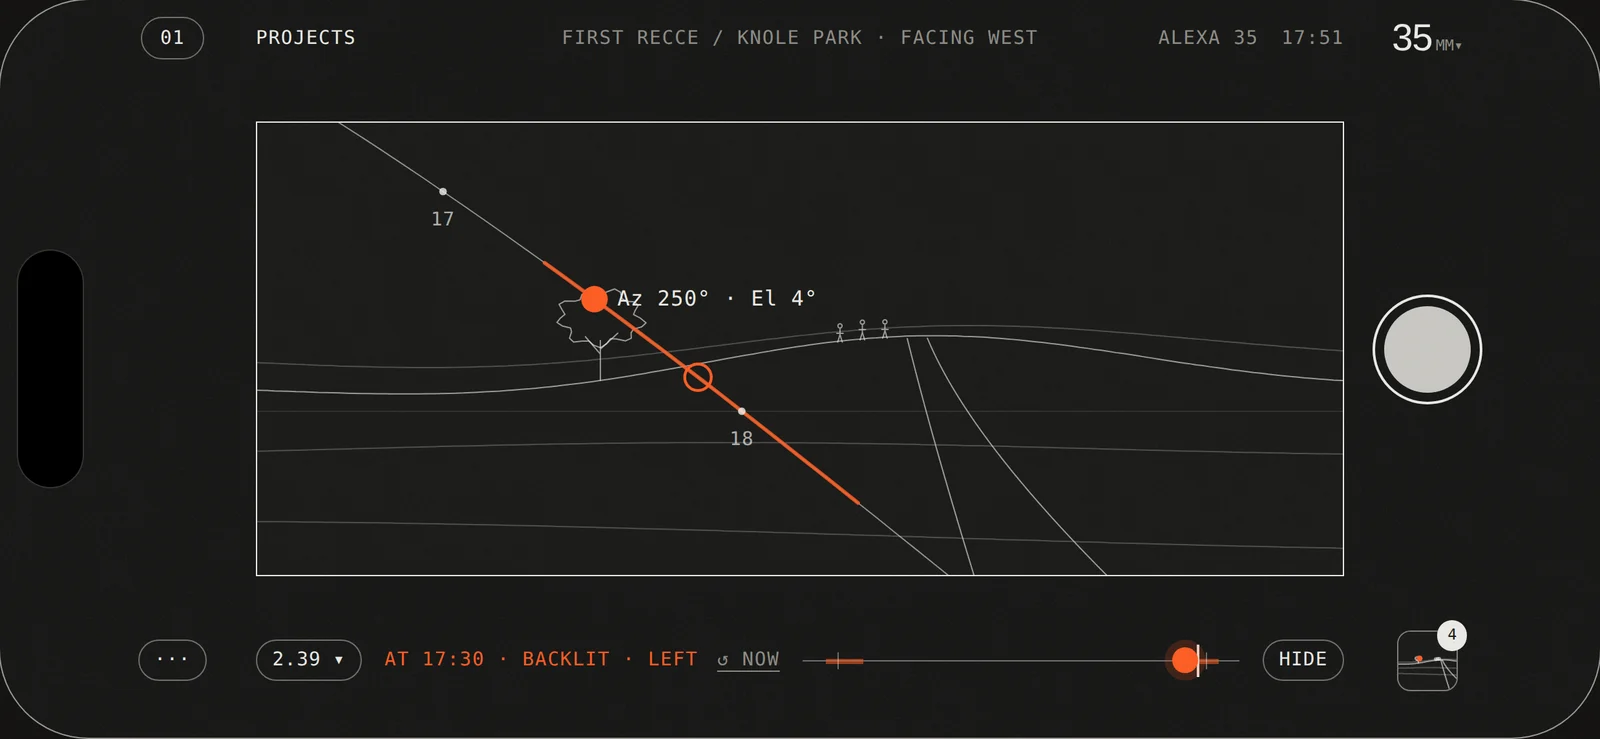
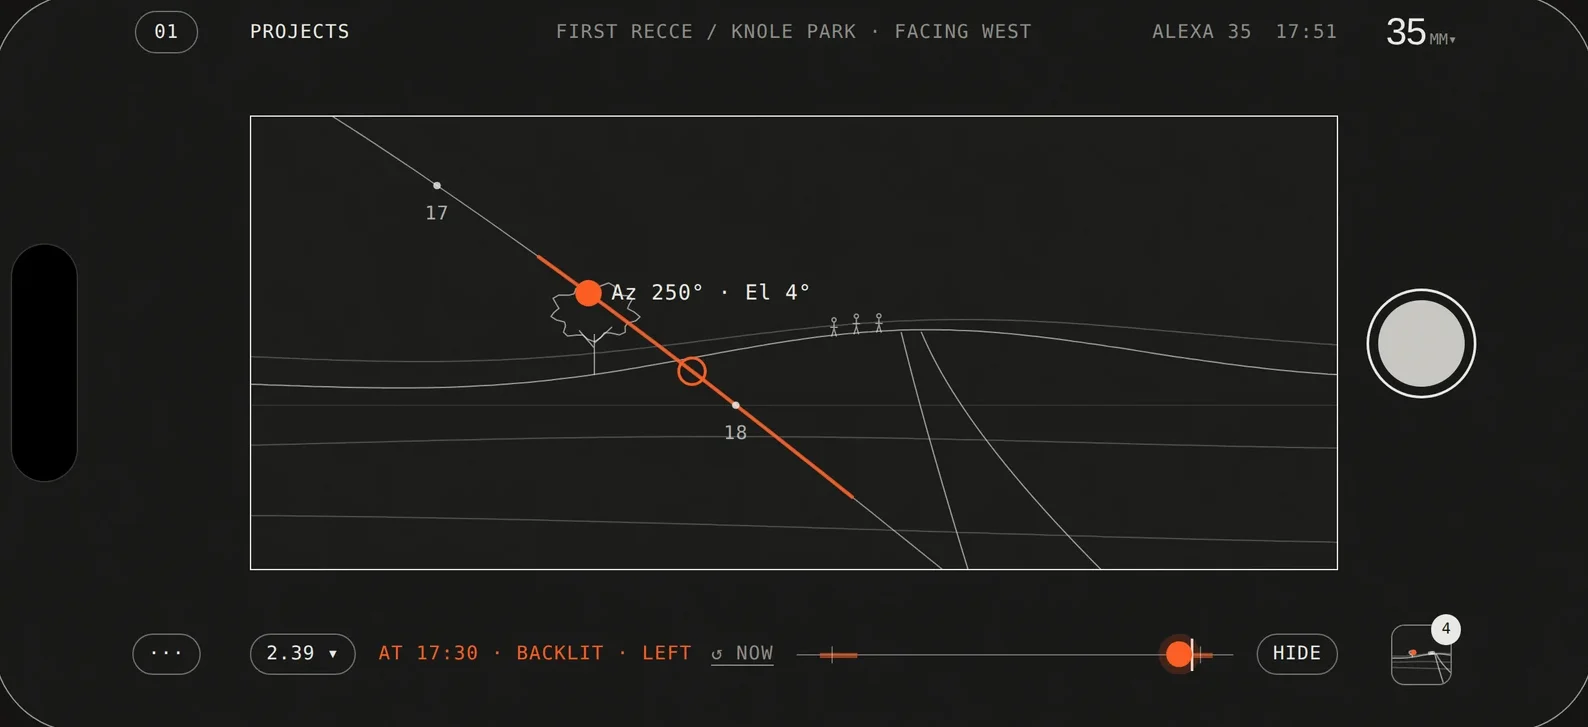
Test site: clip the phone corners on iPhone, trim the Out & Scout shots
Safari could show the phone's dark background square around its rounded
corners while a card scaled in; the phone now clips with a mask and the
splash inherits the radius. The Out & Scout screens lose their hairline
outline so no second frame shows inside the phone.

Claude-Session: https://claude.ai/code/session_01UP9XLJcJYF3iHGB7dSyvd7

diff --git a/preview/site/lv.js b/preview/site/lv.js
@@ -8,7 +8,7 @@
 
   var A = [
     // 19 Oct: real app screens, clicked through one after another, each with a line saying what it is
-    { ar: '1600/739', wide: true, seq: [
+    { ar: '1588/727', wide: true, seq: [
       ['img/os/s-start.webp', 'Projects and recces, each with its next good light'],
       ['img/os/s-cam.webp', 'The sun path drawn over the live camera'],
       ['img/os/s-portrait.webp', 'Grid, level, portrait'],
@@ -42,7 +42,7 @@
   css.textContent = [
     // shared: a taller tile so there is room for the work, and phones drawn like the project pages
     'html.lv .eltio.alt-plx.lp .x-frame{aspect-ratio:4/5!important;overflow:hidden}',
-    'html.lv .lv-ph{position:absolute;aspect-ratio:600/1298;border-radius:13%/6%;overflow:hidden;background:#0E0E0D;box-shadow:0 24px 40px -22px rgba(0,0,0,.55),0 0 0 1px rgba(0,0,0,.06)}',
+    'html.lv .lv-ph{position:absolute;aspect-ratio:600/1298;border-radius:13%/6%;overflow:hidden;background:#0E0E0D;box-shadow:0 24px 40px -22px rgba(0,0,0,.55);isolation:isolate;-webkit-mask-image:-webkit-radial-gradient(#fff,#000);transform:translateZ(0)}',
     'html.lv .lv-ph.w{aspect-ratio:698/350;border-radius:7%/14%}',
     'html.lv .lv-ph img,html.lv .lv-ph video{position:absolute;inset:0}',
     'html.lv .lv-ph .lv-s{position:absolute;inset:0;opacity:0;transition:opacity .7s ease}html.lv .lv-ph .lv-s.on{opacity:1}',
@@ -101,7 +101,7 @@
     'html.lv5 .lv-ph.w,html.lv6 .lv-ph.w{height:auto;width:86%;top:44%}',
     'html.lv5 .x-p.lv-on .lv-ph,html.lv6 .x-p.lv-on .lv-ph{opacity:1;scale:1;animation:lvFloat 5.5s ease-in-out infinite}',
     '@keyframes lvFloat{0%,100%{translate:-50% -50%}50%{translate:-50% calc(-50% - 7px)}}',
-    'html.lv .lv-sp{position:absolute;inset:0;z-index:3;background:#fffff8;transition:opacity .6s ease}',
+    'html.lv .lv-sp{position:absolute;inset:0;z-index:3;background:#fffff8;border-radius:inherit;overflow:hidden;transition:opacity .6s ease}',
     'html.lv .lv-sp .k2{position:absolute;inset:0;border:0!important;background:none!important;opacity:1!important;transform:none!important}',
     'html.lv .lv-sp .k2-rest{transform:scale(1.55)!important;opacity:1!important;filter:none!important}',
     'html.lv .lv-ph.w .lv-sp .k2-rest{transform:scale(1.05)!important}',

diff --git a/preview/site/index.html b/preview/site/index.html
@@ -5,10 +5,10 @@
 <meta name="viewport" content="width=device-width, initial-scale=1, viewport-fit=cover">
 <title>Eltio Studio</title>
 <link rel="icon" href="eye.svg">
-<link rel="stylesheet" href="site.css?v=1792410420">
-<link rel="stylesheet" href="alt.css?v=1792410420">
-<link rel="stylesheet" href="ring.css?v=1792410420">
-<link rel="stylesheet" href="plx.css?v=1792410420">
+<link rel="stylesheet" href="site.css?v=1792412128">
+<link rel="stylesheet" href="alt.css?v=1792412128">
+<link rel="stylesheet" href="ring.css?v=1792412128">
+<link rel="stylesheet" href="plx.css?v=1792412128">
 <style>html,body{margin:0;background:#fffff8}</style>
 </head>
 <body>
@@ -279,13 +279,13 @@
     <button type="button" class="x-sh-x m" aria-label="Close project">Close</button>
   </section>
 </div>
-<script src="site.js?v=1792410420"></script>
-<script src="wf.js?v=1792410420"></script>
-<script src="alt.js?v=1792410420"></script>
-<script src="land.js?v=1792410420"></script>
-<script src="plx.js?v=1792410420"></script>
-<script src="mi.js?v=1792410420"></script>
-<script src="lv.js?v=1792410420"></script>
-<script src="motion.js?v=1792410420"></script>
+<script src="site.js?v=1792412128"></script>
+<script src="wf.js?v=1792412128"></script>
+<script src="alt.js?v=1792412128"></script>
+<script src="land.js?v=1792412128"></script>
+<script src="plx.js?v=1792412128"></script>
+<script src="mi.js?v=1792412128"></script>
+<script src="lv.js?v=1792412128"></script>
+<script src="motion.js?v=1792412128"></script>
 </body>
 </html>

diff --git a/preview/site/landing.html b/preview/site/landing.html
@@ -5,10 +5,10 @@
 <meta name="viewport" content="width=device-width, initial-scale=1, viewport-fit=cover">
 <title>Eltio Studio</title>
 <link rel="icon" href="eye.svg">
-<link rel="stylesheet" href="site.css?v=1792410420">
-<link rel="stylesheet" href="alt.css?v=1792410420">
-<link rel="stylesheet" href="ring.css?v=1792410420">
-<link rel="stylesheet" href="plx.css?v=1792410420">
+<link rel="stylesheet" href="site.css?v=1792412128">
+<link rel="stylesheet" href="alt.css?v=1792412128">
+<link rel="stylesheet" href="ring.css?v=1792412128">
+<link rel="stylesheet" href="plx.css?v=1792412128">
 <style>html,body{margin:0;background:#fffff8}</style>
 </head>
 <body>
@@ -279,13 +279,13 @@
     <button type="button" class="x-sh-x m" aria-label="Close project">Close</button>
   </section>
 </div>
-<script src="site.js?v=1792410420"></script>
-<script src="wf.js?v=1792410420"></script>
-<script src="alt.js?v=1792410420"></script>
-<script src="land.js?v=1792410420"></script>
-<script src="plx.js?v=1792410420"></script>
-<script src="mi.js?v=1792410420"></script>
-<script src="lv.js?v=1792410420"></script>
-<script src="motion.js?v=1792410420"></script>
+<script src="site.js?v=1792412128"></script>
+<script src="wf.js?v=1792412128"></script>
+<script src="alt.js?v=1792412128"></script>
+<script src="land.js?v=1792412128"></script>
+<script src="plx.js?v=1792412128"></script>
+<script src="mi.js?v=1792412128"></script>
+<script src="lv.js?v=1792412128"></script>
+<script src="motion.js?v=1792412128"></script>
 </body>
 </html>
